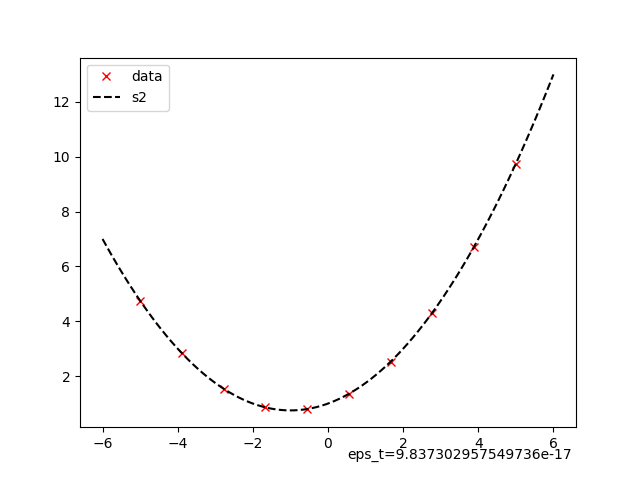
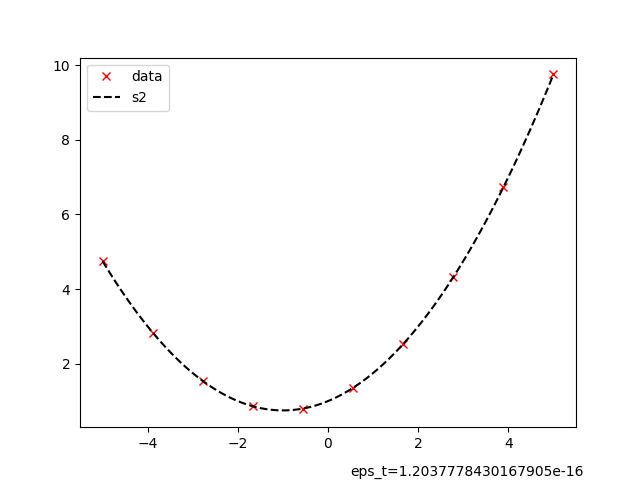
added 3rd order spline and tested

diff --git a/examples/test.py b/examples/test.py
@@ -1,7 +1,10 @@
 import numpy as np
 import matplotlib.pyplot as plt
+import sys
 
-from lab02.linalg_interp import (
+sys.path.insert(1, '/goph419-f2023-lab02-stSL/src/lab02')
+
+from linalg_interp import (
     gauss_iter_solve,
     spline_function,
 )
@@ -38,6 +41,8 @@ def test_spline():
     xd=np.linspace(-5.0,5.0,10)
     yd=1.0+0.5*xd
 
+    #testing first order spline interpolation
+
     s1=spline_function(xd,yd,order=1)
     xp=np.linspace(-6.0,6.0,100)
     yp_exp=1.0+0.5*xp
@@ -51,14 +56,16 @@ def test_spline():
     eps_t=np.linalg.norm(yp_exp-yp_actual)/np.linalg.norm(yp_exp)
     plt.text(0.5,-1.0,f"eps_t={eps_t}")
     plt.legend()
-    plt.savefig("figures/test_linear.png")
+    plt.savefig("../figures/test_linear.png")
 
 
-    xd=np.linspace(-5.0,5.0,10)
+    #xd=np.linspace(-5.0,5.0,10)
     yd=1.0+0.5*xd+0.25*xd**2
 
+    #testing second order spline interpolation
+
     s2=spline_function(xd,yd,order=2)
-    xp=np.linspace(-6.0,6.0,100)
+    xp=np.linspace(-5.0,5.0,100)
     yp_exp=1.0+0.5*xp+0.25*xp**2
     yp_actual=np.array(
         [s2(x) for x in xp]
@@ -70,9 +77,25 @@ def test_spline():
     eps_t=np.linalg.norm(yp_exp-yp_actual)/np.linalg.norm(yp_exp)
     plt.text(0.5,-1.0,f"eps_t={eps_t}")
     plt.legend()
-    plt.savefig("figures/test_quadratic.png")
+    plt.savefig("../figures/test_quadratic.png")
+    
+    #testing third order spline interpolation
+    
+    s3=spline_function(xd,yd,order=3)
+    xp=np.linspace(-6.0,6.0,100)
+    yp_exp=1.0+0.5*xp+0.25*xp**2+0.125*xp**3
+    yp_actual=np.array(
+        [s3(x) for x in xp]
+    )
+
+    plt.figure()
+    plt.plot(xd,yd,"xr",label="data")
+    plt.plot(xp, yp_actual, "--k", label="s3")
+    eps_t=np.linalg.norm(yp_exp-yp_actual)/np.linalg.norm(yp_exp)
+    plt.text(0.5,-1.0,f"eps_t={eps_t}")
+    plt.legend()
+    plt.savefig("../figures/test_cubic.png")
 
 if __name__=="__main__":
-    test_gauss_iter_solve()
+    #test_gauss_iter_solve()
     test_spline()
-

diff --git a/src/lab02/linalg_interp.py b/src/lab02/linalg_interp.py
@@ -1,6 +1,6 @@
 import numpy as np
 
-def gauss_iter_solve(A,b,x0=None,tol=1e-15,alg="seidel"):
+def gauss_iter_solve(A,b,x0=None,tol=1e-8,alg="seidel"):
     """
     Description of function.
         Parameters
@@ -69,12 +69,12 @@ def spline_function(xd,yd,order=3):
     """
     Description of function.
         Parameters
-        xd:
-        yd:
-        order:
+        xd: x data (array-like)
+        yd: y data (array-like)
+        order: order of interpolation (int)
         ----------
         Returns
-        
+        s1, s2, s3: function of interpolation  
         -------
     """
     #make checks for dimensions for xd and yd
@@ -102,6 +102,9 @@ def spline_function(xd,yd,order=3):
         B=np.zeros_like(dx)
         B[1:]=np.diff(f1)
         c=np.linalg.solve(A,B)
+
+        #print(A,B)
+
         b=f1-c*dx
         def s2(x):
             k=(0 if x <= xd[0]
@@ -110,4 +113,24 @@ def spline_function(xd,yd,order=3):
             return a[k]+b[k]*(x-xd[k])+c[k]*(x-xd[k])**2
         return s2
     elif order==3:
-        pass
+        A=np.zeros((N,N))
+        #A[-2,-1]=dx[-1]
+        #A[1,0]=dx[0]
+        A[1:-1, :-2]+=np.diag(dx[:-1])
+        A[1:-1, 1:-1]+=2.0*(np.diag(dx[1:]+dx[:-1]))
+        A[1:-1, 2:]=+np.diag(dx[1:])
+        A[0,:3]=(-dx[1], (dx[0]+dx[1]), -dx[0])
+        A[-1,-3:]=(-dx[-1], (dx[-2]+dx[-1]), -dx[-2])
+        B=np.zeros(N)
+        B[1:-1]=3*np.diff(f1)
+        #print(A,B)
+
+        c=gauss_iter_solve(A,B)
+        d=(c[1:]-c[-1])/(3.0*dx)
+        b=f1-c[-1]*dx-d*(dx**2)
+        def s3(x):
+            k=(0 if x <= xd[0]
+               else len(a)-1 if x>=xd[-1]
+               else np.nonzero(xd<x)[0][-1])
+            return a[k]+b[k]*(x-xd[k])+c[k]*(x-xd[k])**2+d[k]*(x-xd[k])**3
+        return s3

diff --git a/examples/driver.py b/examples/driver.py
@@ -1,7 +1,15 @@
 import numpy as np
+import sys
+
+sys.path.insert(1, '/goph419-f2023-lab02-stSL/src/lab02')
+
+from linalg_interp import (
+    gauss_iter_solve,
+    spline_function,
+)
 
 def main():
     alg=(input(""))
     water_temps=np.loadtext("water_density_vs_temp_usgs.txt")
     air_temps=np.loadtext("air_density_vs_temp_eng_toolbox.txt")
-    
+
